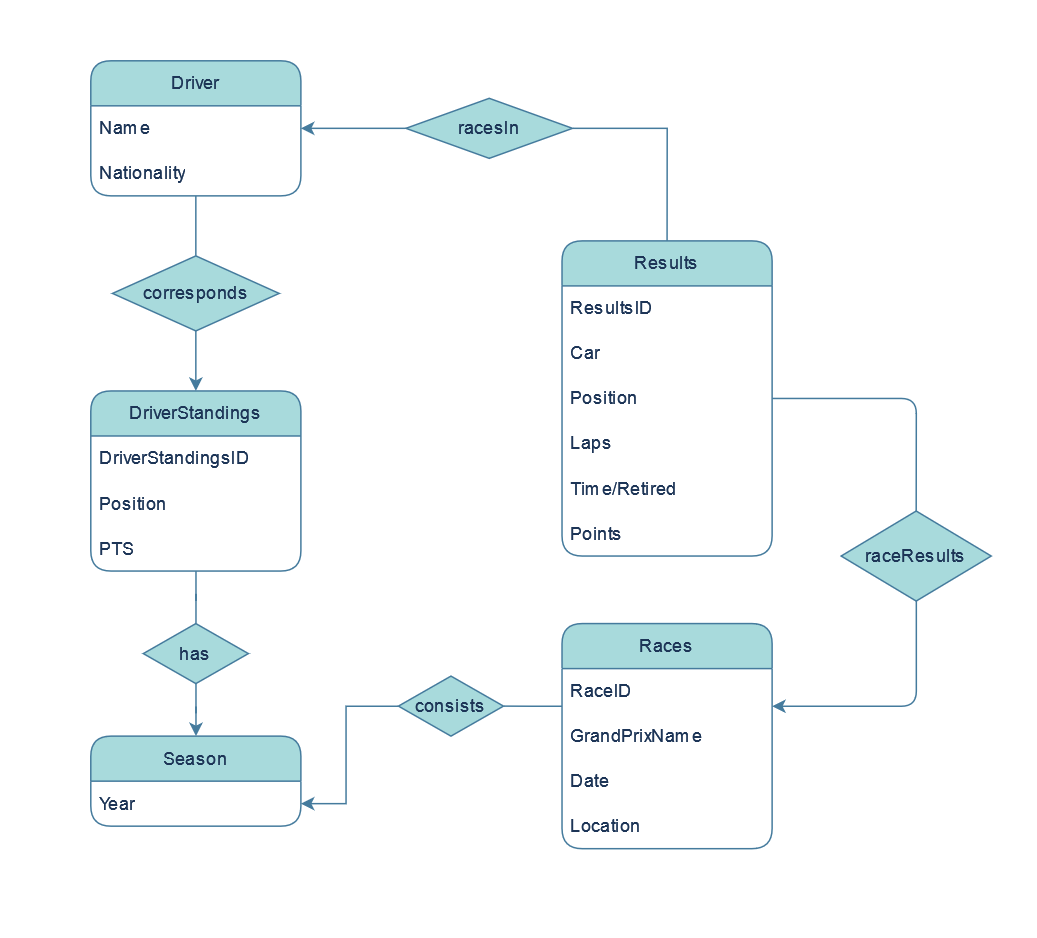
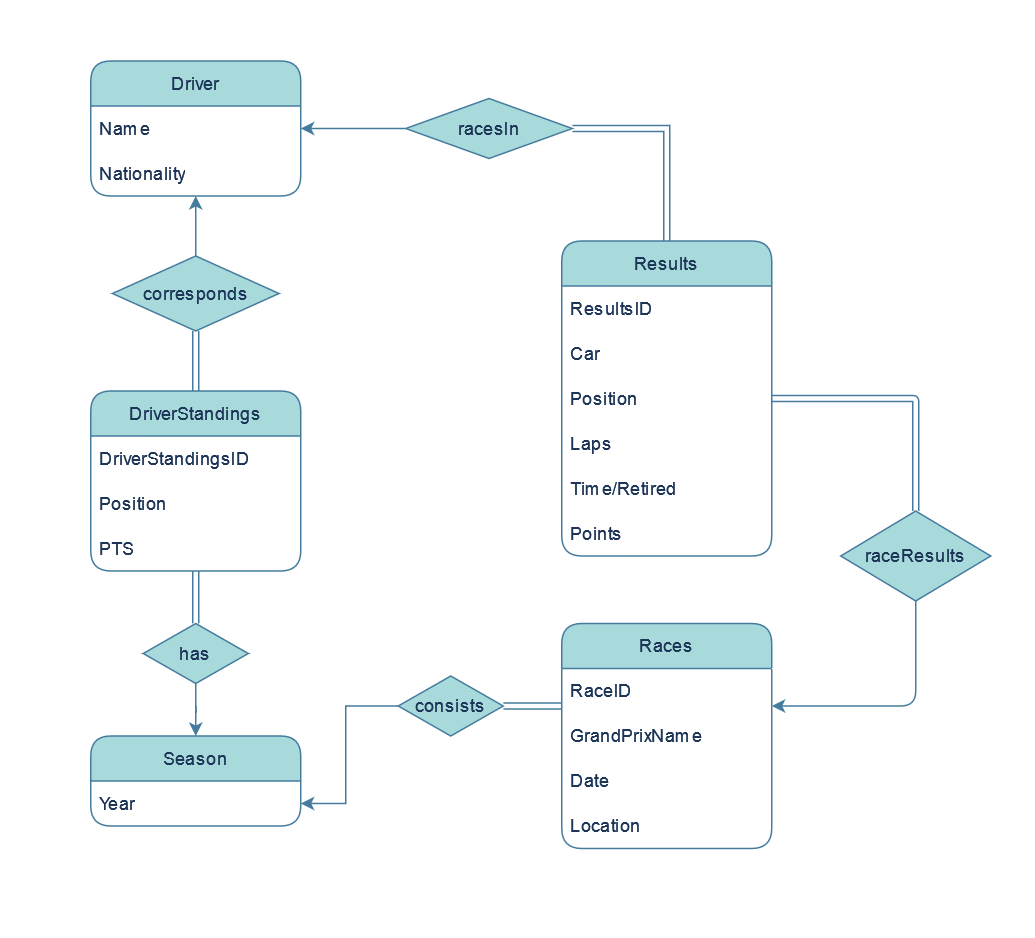
Readme.md - ERD explanation

diff --git a/Data Scraping/src/main.py b/Data Scraping/src/main.py
@@ -34,16 +34,6 @@ def print_commands():
     7. Save last dataframe to JSON
     8. Exit the program""")
 
-# def get_all_drivers():
-#     years = []
-#     for i in range(1950, 2024):
-#         years.append(str(i))
-
-#     df = ws.get_drivers(years)
-#     return df
-
-# df = get_all_drivers()
-
 # main program
 populate_seasons()
 print("Welcome to the Formula 1 Data Web Scraper!")

diff --git a/README.md b/README.md
@@ -71,15 +71,15 @@ Below are the structures of the database.
 ## ERD
 The following database is designed around the structure of the available data scraped from the Formula 1 website.
 
-The center of this database is the `Season`, which is the year of the championship. A season has many `Races`, so their relationship will be _one-to-many_. Each race has its own results, so `Results` is established as its own entity and having a _one-to-one_ relationship with `Races`. 
+The center of this database is the `Season`, which is stores the years of the championships, starting from 1950. A season has many `Races`, so their relationship will be _one-to-many_, with a _total participation_ side on `Races`. Each race has its own results, so `Results` is established as its own entity that has a _one-to-one_ relationship with `Races`. 
 
-A `Driver` is its own entity. In the Formula 1 website, drivers aren't assigned IDs. so the primary key will be their names in this database. Driver's numbers also can't be used to identify drivers, because they can change every year - for example, before Max Verstappen won his first championship in 2021, he raced with the number 33, not 1 (number 1 is usually reserved for championship winners). In other real life examples of databases, people should be assigned unique IDs and not just be uniquely identified by name.
-d
-`Results` contain the results of multiple drivers of each race, so it has a _one-to-many_ relationship. `DriverStandings` is also its own entity. A driver standings keeps track of many drivers at the same time, so its relationship with `Driver` is _one-to-many_.
+A `Driver` is its own entity. In the Formula 1 website, drivers aren't assigned IDs, so because of that - and for the sake of simplicity - the primary key will be their names in this database. Driver's numbers also can't be used to identify drivers, because they can change every year - for example, before Max Verstappen won his first championship in 2021, he raced with the number 33, not 1 (number 1 is usually reserved for championship winners). In real life examples of databases, people should be assigned unique IDs and not just be uniquely identified by name.
+
+`Results` contain the results of multiple drivers of each race, so it has a _many-to-one_ relationship with `Drivers`, with `Results` having a _total participation_. `DriverStandings` is also its own entity and keeps track of many drivers at the same time, so its relationship with `Driver` is _many-to-one_, in which `DriverStandings` has a _total participation_.
 
 The final diagram is as follows:
 
-![Entity relationship diagram of the database in formula1.com website](/Data Storing/design/erd.png)
+![ERD of the Formula 1 website database](<Data Storing/design/ERD.png>)
 
 ## Relational diagram
 
